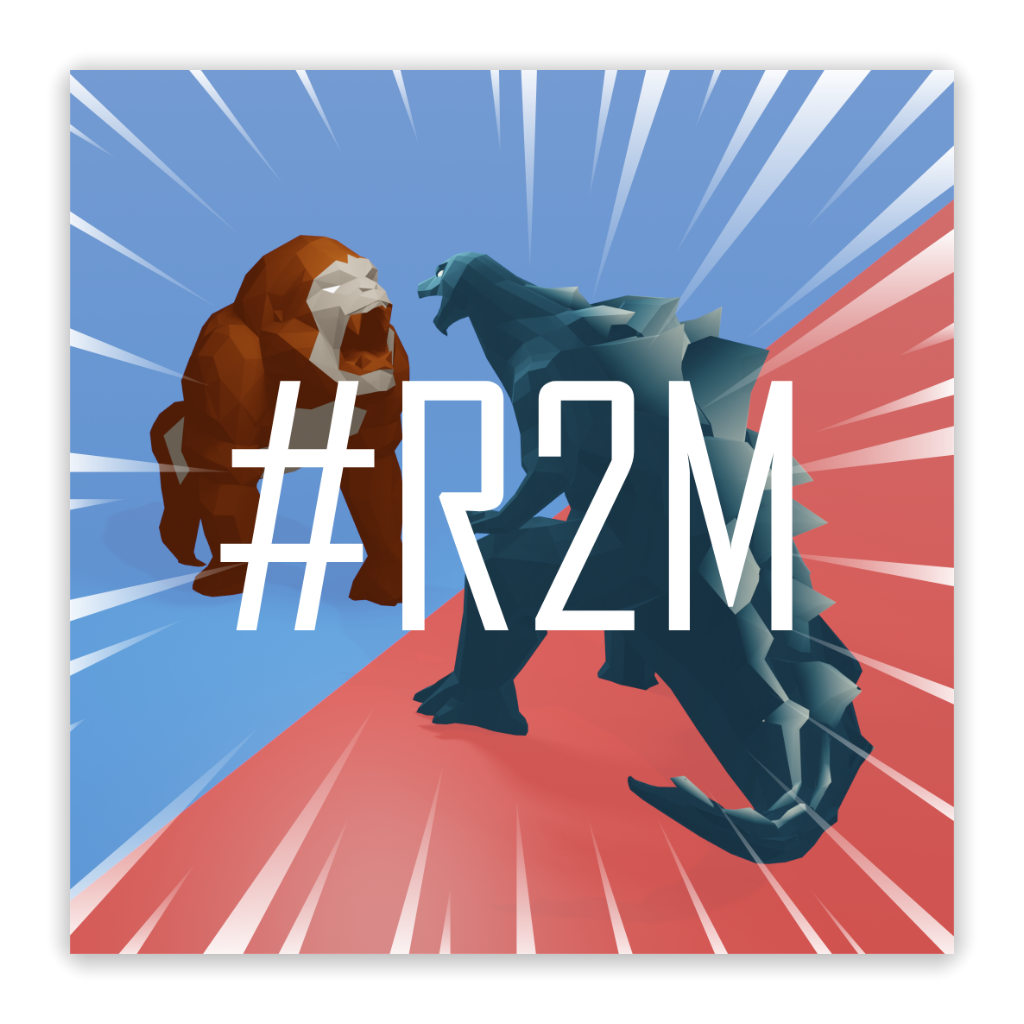
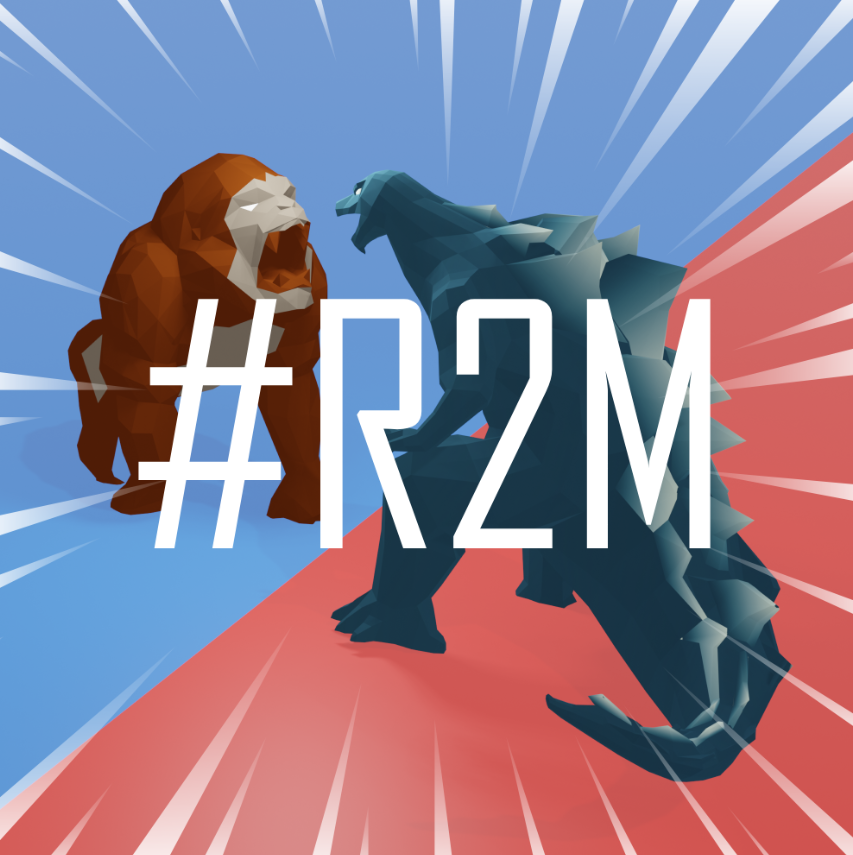
.

diff --git a/_projects/AFPS.md b/_projects/AFPS.md
@@ -11,7 +11,7 @@ category: games (personal)
 
 <div class="row">
     <div class="col-sm mt-3 mt-md-0">
-        {% include figure.html path="assets/img/afps1.png" title="screenshot" class="img-fluid rounded z-depth-1" %}
+        {% include figure.html path="assets/img/afps1.jpg" title="screenshot" class="img-fluid rounded z-depth-1" %}
     </div>
     <div class="col-sm mt-3 mt-md-0">
         {% include figure.html path="assets/img/afps2.png" title="screenshot" class="img-fluid rounded z-depth-1" %}

diff --git a/_projects/Return To Monke.md b/_projects/Return To Monke.md
@@ -2,7 +2,7 @@
 layout: page
 title: Return To Monke
 description: Reject humanity embrace Monke.
-img: assets/img/c19sr.png
+img: assets/img/r2m.png
 importance: 6
 category: games (personal)
 ---
